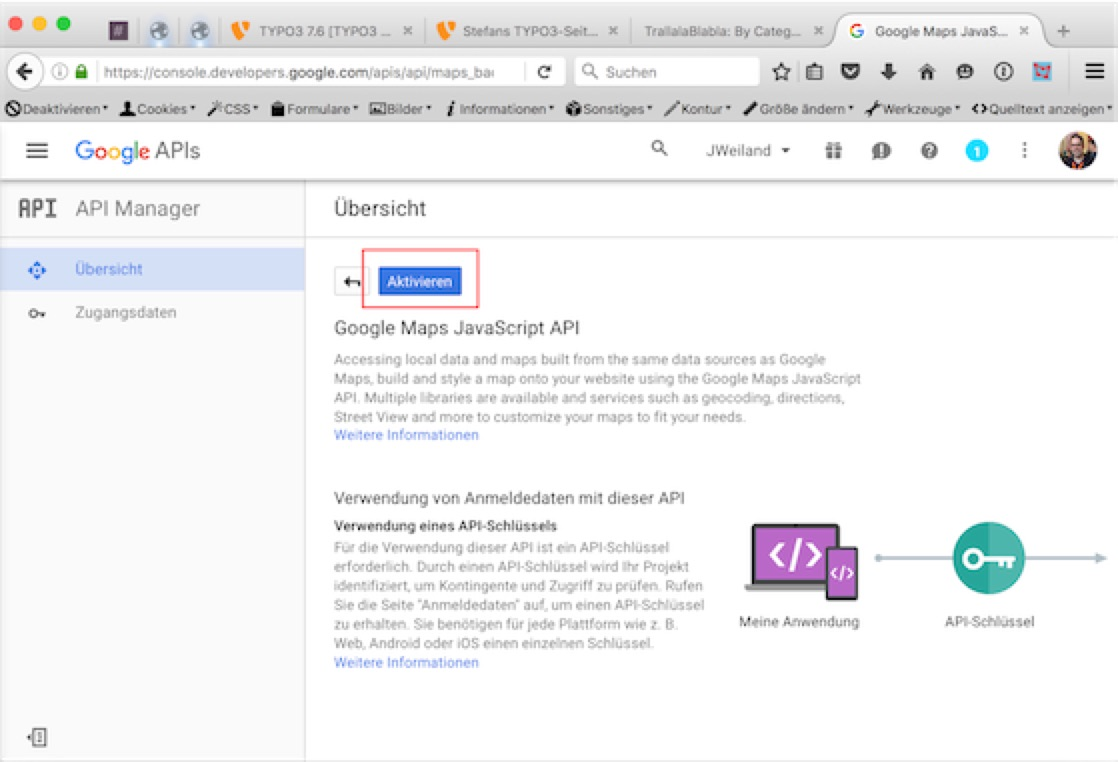
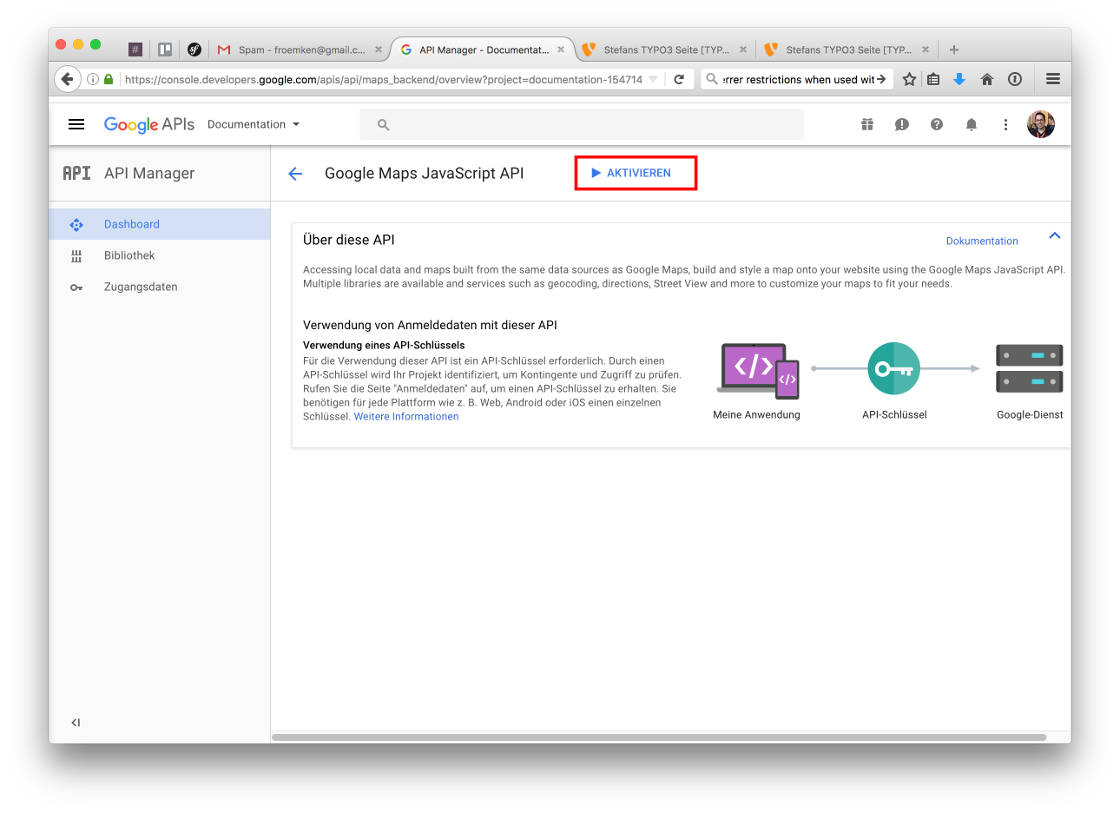
Update documentation to new style of Google Console

Changed region(s): [[0.0, 0.0, 1.0, 0.9961]]

diff --git a/Documentation/AdministratorManual/GoogleApiKeys/Index.rst b/Documentation/AdministratorManual/GoogleApiKeys/Index.rst
@@ -20,7 +20,7 @@ Google Console
 
 #. Open `Google Console <https://console.developers.google.com/>`_.
 
-#. Create a new project at the upper right of the console.
+#. Create a new project at the upper left of the console.
 
 .. figure:: /Images/GoogleApiKeys/google-create-project.jpg
    :width: 500px
@@ -29,9 +29,6 @@ Google Console
 
 #. Choose a project name
 
-#. Click on extended options, if you want to change the location of the App Engine.
-   As a european I prefer to set this to ``europe-west``
-
 #. Click on ``Create``
 
 .. figure:: /Images/GoogleApiKeys/google-create-project-form.jpg
@@ -39,7 +36,17 @@ Google Console
    :align: left
    :alt: Create new project form
 
-#. Wait a second or two until you see the Console again
+#. Wait a second or two until the notification icon at the upper right will stop turning around.
+
+#. If your new project was not opened automatically, please choose your project from the project list at the upper
+   left. If it was not listed there, click on ``Show more projects``.
+
+#. Click on ``Activate API``
+
+.. figure:: /Images/GoogleApiKeys/google-activate-api.jpg
+   :width: 500px
+   :align: left
+   :alt: Activate your first API Key
 
 Get Google Maps JavaScript Api Key
 """"""""""""""""""""""""""""""""""
@@ -58,32 +65,41 @@ Get Google Maps JavaScript Api Key
    :align: left
    :alt: Activate Google Maps JavaScript API
 
-#. Assign an authentication to your just created API
+#. Add authentication to Google Maps JavaScript API
 
-.. figure:: /Images/GoogleApiKeys/google-login-javascript-api.jpg
+.. figure:: /Images/GoogleApiKeys/google-add-authentication-javascript.jpg
    :width: 500px
    :align: left
-   :alt: Add Authentication
+   :alt: Add authentication for Google Maps JavaScript API
 
-#. Start the wizard to add an authentication to your API. Give it a name like ``JavaScript``
-   and set a domain name like ``*.your-domain.com/*``. Else everybody can use your Api Key.
+#. Get API Key and assign reduced access rights
 
-.. figure:: /Images/GoogleApiKeys/google-create-javascript-api.jpg
+.. figure:: /Images/GoogleApiKeys/google-get-key-reduce-rights.jpg
    :width: 500px
    :align: left
-   :alt: Start authentication wizard
+   :alt: Get API Key and reduce access rights
 
-#. Finish the wizard
+#. Give it a name like ``JavaScript``, select ``HTTP-Verweis (Website)`` and set a domain name like ``www.example.com``.
+   Of cause you can also use something like ``*.example.com``. Else everybody can use your API Key.
 
-.. figure:: /Images/GoogleApiKeys/google-javascript-api-finished.jpg
+.. figure:: /Images/GoogleApiKeys/google-add-access-rights-javascript.jpg
    :width: 500px
    :align: left
-   :alt: Finish the authentication wizard
+   :alt: Add access rights to your Google Maps JavaScript API Key
+
+#. Click on ``save`` to finish the wizard
 
 Get Google Maps Geocoding Api Key
 """""""""""""""""""""""""""""""""
 
-Nearly the same as above.
+Nearly the same as above. Start again from Dashboard.
+
+#. Click on ``Activate API``
+
+.. figure:: /Images/GoogleApiKeys/google-activate-api.jpg
+   :width: 500px
+   :align: left
+   :alt: Activate your first API Key
 
 #. Choose ``Google Maps Geocoding API``
 
@@ -94,35 +110,40 @@ Nearly the same as above.
 
 #. ``Activate`` the Google Maps Geocoding API
 
-#. Assign an authentication to your just created API
+#. Click on ``Authentication`` in the left menu and then on ``Create new login data``.
+
+.. figure:: /Images/GoogleApiKeys/google-add-new-authentication-geocode.jpg
+   :width: 500px
+   :align: left
+   :alt: Add new authentication for Geocode API Key
 
 #. Choose authentication wizard
 
-.. figure:: /Images/GoogleApiKeys/google-choose-login.jpg
+.. figure:: /Images/GoogleApiKeys/google-choose-authentication-wizard.jpg
    :width: 500px
    :align: left
-   :alt: Choose authentication wizard
+   :alt: Choose Authentication wizard
 
-#. Start the wizard to add an authentication to your API. Give it a name like ``GeoCoding``,
-   choose ``webserver`` from selectbox and set an ip address. Else everybody can use your Api Key.
+#. Add Authentication for Geocoding API
 
-.. figure:: /Images/GoogleApiKeys/google-login-geocoding-api.jpg
+.. figure:: /Images/GoogleApiKeys/google-add-authentication-geocode.jpg
    :width: 500px
    :align: left
-   :alt: Start authentication wizard
+   :alt: Choose Authentication wizard
 
-#. Attach an ip address to your authentication. Else everybody can use your Api Key.
+#. Get API Key and reduce access rights
 
-.. figure:: /Images/GoogleApiKeys/google-login-ip-geocoding-api.jpg
+.. figure:: /Images/GoogleApiKeys/google-get-key-reduce-rights-geocode.jpg
    :width: 500px
    :align: left
-   :alt: Attach ip address
+   :alt: Get API Key and create access rights for Geocoding API Key
 
-#. Finish the wizard
+#. Give it a name like ``Geocode``, select ``IP-Address (Webserver)`` and set the IP-Address of your server.
+   Else everybody can use your API Key.
 
-#. Back in the overview you can see the registered Api Keys
-
-.. figure:: /Images/GoogleApiKeys/google-api-keys.jpg
+.. figure:: /Images/GoogleApiKeys/google-add-access-rights-geocode.jpg
    :width: 500px
    :align: left
-   :alt: Show Google Api Keys
+   :alt: Reduce access rights to your Geocode API Key
+
+#. Click ``Save`` to finish the wizard.
